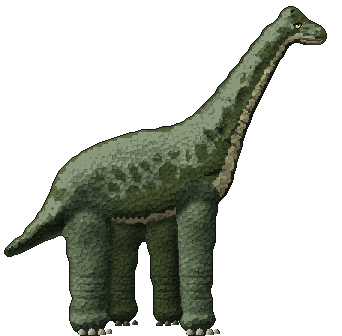
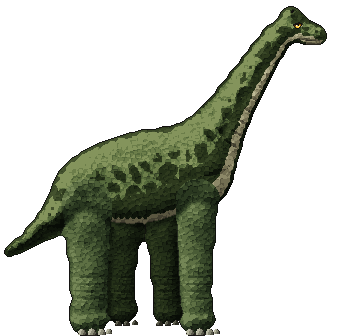
Brachiosaur: darker, its dapples clear again over back, neck and head
As the user asked: the hide a darker olive as drawn, and the drawing's
dark dapples kept crisp (less smoothing, more weight) over the back, the
flanks, the neck and the head; the near legs in the same green.

Changed region(s): [[0.0585, 0.0298, 0.9357, 0.7143], [0.0, 0.7143, 0.0585, 0.744]]

diff --git a/internal/dinopaint/brachio.go b/internal/dinopaint/brachio.go
@@ -61,17 +61,17 @@ func brachio() *Species {
 	)
 	return &Species{
 		Name:        "brachio",
-		GuideDetail: 0.35,
+		GuideDetail: 0.5,
 		Ink:         32,
 		Materials: []Material{
 			{Name: "hide", Seeds: []uint32{0x7b8c5e, 0x94a474, 0xa2ae8a, 0xbcc6a4, 0x869370, 0x63734a, 0x6a7757},
-				Ramp:   []uint32{0x10140e, 0x1a2018, 0x262e22, 0x343e2e, 0x46523e, 0x5a6850, 0x707e64, 0x8a987c},
+				Ramp:   []uint32{0x10160c, 0x1a2414, 0x26321c, 0x344226, 0x465630, 0x566a3c, 0x6c7e4a, 0x84945c},
 				Region: Poly(15, 99, 80, 99, 80, 113, 15, 113), Only: []string{"tan"}}, // the guide's nails are painted again
 			// The dark mottling, a net of blotches as a giraffe's.
 			{Name: "patch", Seeds: []uint32{0x4c5a38, 0x4e5a40, 0x353e2c, 0x374229, 0x404734, 0x20261c, 0x242c1c},
-				Ramp: []uint32{0x0e120a, 0x161c10, 0x1e2616, 0x28321c, 0x343f24, 0x404c2c, 0x4e5a36, 0x5e6a42}, Smooth: 0.4, Bias: 0.2},
+				Ramp: []uint32{0x080c06, 0x0e140a, 0x141c0e, 0x1c2614, 0x243018, 0x2e3a1e, 0x384626, 0x44522e}, Smooth: 0.25, Bias: 0.3},
 			// The near legs, a shade darker than the flank above them.
-			{Name: "leg", Ramp: []uint32{0x0e120c, 0x161c14, 0x20281c, 0x2c3626, 0x3a4632, 0x4c5a42, 0x606e54, 0x788668}},
+			{Name: "leg", Ramp: []uint32{0x0c120a, 0x141c10, 0x1e2a18, 0x2a3820, 0x38482a, 0x4a5c36, 0x5e7044, 0x748656}},
 			{Name: "tan", Seeds: []uint32{0x9f9e78, 0x7a7958, 0xc2c09a, 0xa09276, 0x5f5f48, 0x575742, 0xdddbb8, 0xeeecd2},
 				Ramp: []uint32{0x2e2c22, 0x423f30, 0x5a5640, 0x726e52, 0x8c8868, 0xa6a280, 0xbebb98, 0xd4d2b2}, Relief: 0.7, Smooth: 0.5},
 		},
